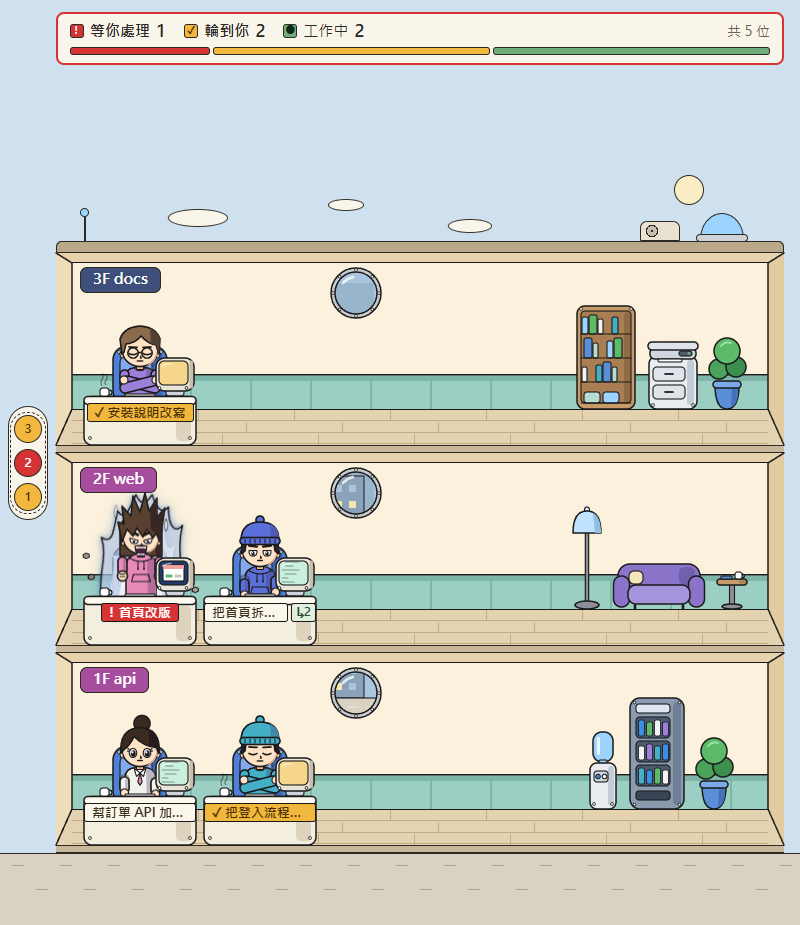
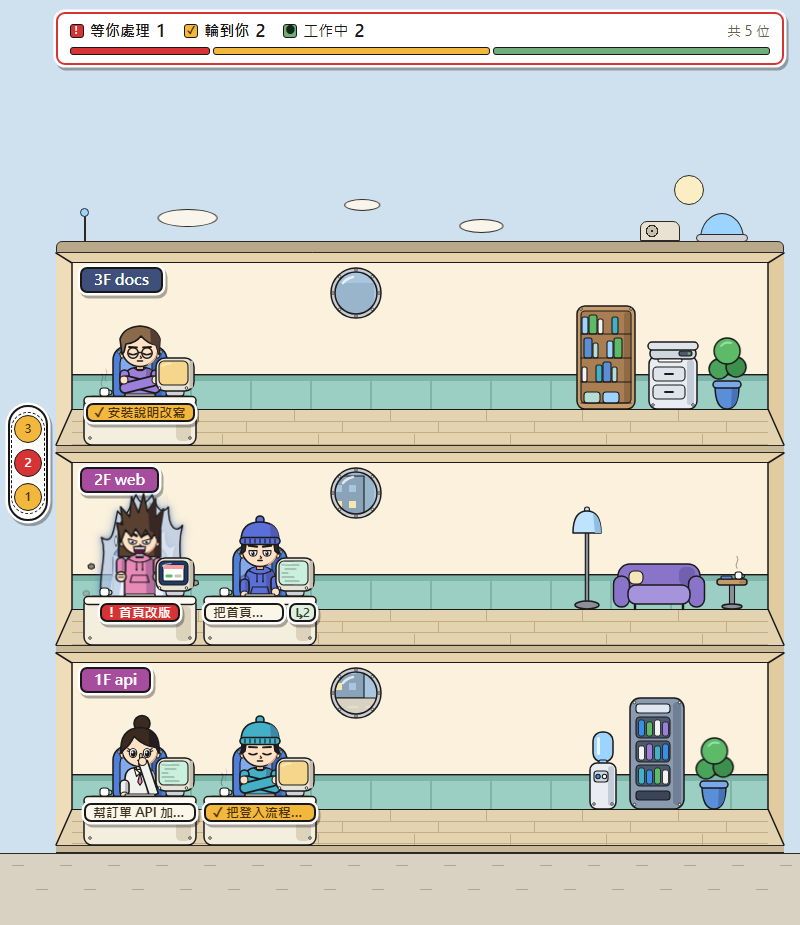
feat: 名牌、招牌、狀態列、電梯面板、資訊卡統一成粗黑框、白外圈、硬投影
五種介面元素共用 theme.css 的 --ui-border、--ui-shadow，值取自設計稿白天畫板的名牌。
狀態列、電梯面板、資訊卡在元素上把主題變數蓋回固定值，日夜長得一樣。

diff --git a/web/src/styles/building.css b/web/src/styles/building.css
@@ -63,10 +63,9 @@ body { margin: 0; min-height: 100vh; display: flex; flex-direction: column; back
 .side-r { right: 0; transform: scaleX(-1); --side-wall: var(--side-wall-r); }
 /* 樓板：上下各一條墨線 */
 .slab { left: 0; right: 0; top: 192px; height: 8px; box-sizing: border-box; border: solid var(--ink); border-width: 1.6px 0; background: var(--slab); }
-/* 招牌：不透明的專案色（floor.ts 設）、1.6px 墨線框、白色粗體，放不下用「…」；left 與 max-width（到第一扇窗之前）由 floor.ts 依 furniture.ts 的 SIGN_X／SIGN_MAX_W 設定。
-   top 14：0 號座位輪到你的泡泡頂在 y 44，招牌底在 40，不重疊 */
-.sign { top: 14px; height: 26px; padding: 0 12px; border: 1.6px solid var(--ink); border-radius: 7px; box-sizing: border-box;
-  color: #fff; font: bold 15px/22.8px system-ui, "Microsoft JhengHei", sans-serif; white-space: nowrap; overflow: hidden; text-overflow: ellipsis; }
+/* 招牌：不透明的專案色（floor.ts 設）、共用的介面樣式（theme.css 的 --ui-*）、白色粗體，放不下用「…」；left 與 max-width（到第一扇窗之前）由 floor.ts 依 furniture.ts 的 SIGN_X／SIGN_MAX_W 設定 */
+.sign { top: 14px; height: 26px; padding: 0 12px; border: var(--ui-border); box-shadow: var(--ui-shadow); border-radius: 7px; box-sizing: border-box;
+  color: #fff; font: bold 15px/22px system-ui, "Microsoft JhengHei", sans-serif; white-space: nowrap; overflow: hidden; text-overflow: ellipsis; }
 .chairs, .people, .desks, .windows { inset: 0; pointer-events: none; }
 /* 右端家具區：離樓層右緣 24（GEO.sideGap）、寬 200（GEO.furnitureW） */
 .furniture { top: 0; right: 24px; width: 200px; height: 200px; pointer-events: none; }
@@ -77,15 +76,15 @@ body { margin: 0; min-height: 100vh; display: flex; flex-direction: column; back
 .desk .desk-steam { display: none; }
 .desk[data-st="idle"] .desk-steam { display: inline; } /* 輪到你時馬克杯冒煙（objects.ts 的 DESK_STEAM） */
 /* 名牌：桌子正面，13px、最寬 112，放不下用「…」；卡片色依狀態：工作中米白（--plate）、等你處理紅、輪到你琥珀。
-   右邊的「↳N」是工作中的助理數（淡綠），不縮，名牌太長時縮的是文字 */
-.plate { position: absolute; top: 150px; left: 4px; right: 4px; display: flex; justify-content: center; gap: 3px; }
-.plate > span { min-width: 0; max-width: 112px; box-sizing: border-box; height: 19px; padding: 0 7px; border: 1.4px solid var(--fig-ink); border-radius: 3px;
-  font: bold 13px/17px system-ui, "Microsoft JhengHei", sans-serif; white-space: nowrap; overflow: hidden; text-overflow: ellipsis; }
+   右邊的「↳N」是工作中的助理數（淡綠），不縮，名牌太長時縮的是文字。框、白外圈、硬投影用共用的介面樣式（theme.css 的 --ui-*），間距 5 讓兩塊的白外圈不黏在一起 */
+.plate { position: absolute; top: 150px; left: 4px; right: 4px; display: flex; justify-content: center; gap: 5px; }
+.plate > span { min-width: 0; max-width: 112px; box-sizing: border-box; height: 19px; padding: 0 7px; border: var(--ui-border); box-shadow: var(--ui-shadow); border-radius: 7px;
+  font: bold 13px/15px system-ui, "Microsoft JhengHei", sans-serif; white-space: nowrap; overflow: hidden; text-overflow: ellipsis; }
 .plate.working > span { background: var(--plate); color: #3b3020; }
 .plate.waiting > span { background: var(--waiting); color: #fff; }
 .plate.idle > span { background: var(--turn); color: #4a3000; }
-.plate > .helpers { flex: none; box-sizing: border-box; height: 19px; padding: 0 4px; border: 1.4px solid var(--fig-ink); border-radius: 3px; background: #dfeedd; color: #2f4a32;
-  font: bold 12px/16px system-ui, "Microsoft JhengHei", sans-serif; }
+.plate > .helpers { flex: none; box-sizing: border-box; height: 19px; padding: 0 4px; border: var(--ui-border); box-shadow: var(--ui-shadow); border-radius: 7px; background: #dfeedd; color: #2f4a32;
+  font: bold 12px/15px system-ui, "Microsoft JhengHei", sans-serif; }
 /* 沒有人上班：空大廳，兩行字寫在貼在牆上的紙條（微微歪 −2°） */
 .lobby-msg { left: 0; right: 0; top: 40px; display: flex; justify-content: center; }
 .lobby-msg .note { display: flex; flex-direction: column; align-items: center; gap: 6px; padding: 12px 22px; border: 1.6px solid var(--ink); border-radius: 4px;

diff --git a/web/src/styles/ui.css b/web/src/styles/ui.css
@@ -1,8 +1,10 @@
-/* 狀態列：紙卡，圖例＋比例條；外框跟著最緊急的狀態變色（等你處理紅、輪到你琥珀、其餘一般墨線）；沒有陰影。
+/* 狀態列、電梯面板、資訊卡日夜長得一樣：在元素上把會隨日夜變的主題變數蓋回固定值（白底、墨字），框和投影用共用的介面樣式（theme.css 的 --ui-*） */
+:is(#summary, #elevator, .card) { --paper: #fff; --text: var(--ui-ink); --text-sub: #6b5f4f; --ink: var(--ui-ink); --button: #e8dbc2; }
+/* 狀態列：白卡，圖例＋比例條；外框跟著最緊急的狀態變色（等你處理紅、輪到你琥珀、其餘一般墨線）。
    整頁橫向捲動時釘在左邊，寬度維持視窗寬（--view-w 由 building.ts 設） */
 #top { position: sticky; top: 0; left: 0; z-index: 20; box-sizing: border-box; width: var(--view-w, auto); padding: 12px 16px 10px 56px; background: var(--page-bg); }
 #summary { padding: 6px 12px 8px; display: flex; flex-direction: column; gap: 6px;
-  background: var(--paper); color: var(--text); border: 1.6px solid var(--ink); border-radius: 8px; }
+  background: var(--paper); color: var(--text); border: var(--ui-border); box-shadow: var(--ui-shadow); border-radius: 9px; }
 #summary.turn { border: 2.6px solid var(--turn); }
 #summary.alert { border: 2.6px solid var(--waiting); }
 #summary .legend { display: flex; flex-wrap: wrap; align-items: center; gap: 4px 18px; font-size: 15px; }
@@ -21,7 +23,7 @@
 #summary .bar span { border: 1.2px solid var(--ink); border-radius: 3px; box-sizing: border-box; }
 /* 電梯面板：固定在視窗左側垂直置中，寬 40，疊在狀態列之上（狀態列左邊 56 是空的）、資訊卡之下；樓層多到放不下時自己上下捲。按鈕直徑 28、間距 6；框上下各比按鈕多 3 */
 #elevator { position: fixed; left: 8px; top: 50%; transform: translateY(-50%); z-index: 25; width: 40px; box-sizing: border-box; max-height: calc(100vh - 24px);
-  overflow-y: auto; scrollbar-width: none; background: var(--paper); border: 1.6px solid var(--ink); border-radius: 20px; }
+  overflow-y: auto; scrollbar-width: none; background: var(--paper); border: var(--ui-border); box-shadow: var(--ui-shadow); border-radius: 20px; }
 .elev-in { position: relative; display: flex; flex-direction: column; align-items: center; gap: 6px; padding: 8px 5px; }
 .elev-in button { flex: none; width: 28px; height: 28px; padding: 0; box-sizing: border-box; border: 1.6px solid var(--ink); border-radius: 50%; background: var(--button); color: var(--text);
   font: bold 12px/1 system-ui, "Microsoft JhengHei", sans-serif; cursor: pointer; }
@@ -30,8 +32,8 @@
 .elev-in button.idle { background: var(--turn); color: #4a3000; }
 .elev-frame { position: absolute; left: 1px; right: 1px; box-sizing: border-box; border: 1.2px dashed var(--text); border-radius: 17px; background: transparent; pointer-events: none; }
 
-/* 資訊卡：紙卡、墨線框、頂端一條專案色（--pc 由 card.ts 依專案設定）；顏色只用主題變數 */
-.card { position: fixed; display: none; z-index: 30; width: 300px; box-sizing: border-box; background: var(--paper); color: var(--text); border: 1.6px solid var(--ink);
+/* 資訊卡：白卡、共用的介面樣式、頂端一條專案色（--pc 由 card.ts 依專案設定）；顏色只用主題變數（日夜固定的值在本檔第一條規則） */
+.card { position: fixed; display: none; z-index: 30; width: 300px; box-sizing: border-box; background: var(--paper); color: var(--text); border: var(--ui-border); box-shadow: var(--ui-shadow);
   border-radius: 12px; overflow: hidden; font: 13px/1.5 system-ui, "Microsoft JhengHei", sans-serif; }
 .card-bar { height: 5px; background: var(--pc); }
 .card-body { padding: 14px 16px 16px; display: flex; flex-direction: column; gap: 12px; }

diff --git a/test/figure.test.ts b/test/figure.test.ts
@@ -104,6 +104,15 @@ test('名牌小標「↳N」不縮，名牌太長時縮的是文字', () => {
   expect(rule('web/src/styles/building.css', '.plate > span')).toMatch(/min-width: 0/);
 });
 
+test('名牌、招牌、狀態列、電梯面板、資訊卡共用同一組粗黑框、白外圈、硬投影', () => {
+  const ui = 'web/src/styles/ui.css', building = 'web/src/styles/building.css';
+  for (const [file, sel] of [[building, '.plate > span'], [building, '.plate > .helpers'], [building, '.sign'], [ui, '#summary'], [ui, '#elevator'], [ui, '.card']] as const) {
+    const r = rule(file, sel);
+    expect(r, sel).toContain('border: var(--ui-border)');
+    expect(r, sel).toContain('box-shadow: var(--ui-shadow)');
+  }
+});
+
 test('狀態列在整頁橫向捲動時釘在左邊', () => {
   expect(rule('web/src/styles/ui.css', '#top')).toMatch(/left: 0/);
 });

diff --git a/web/src/styles/theme.css b/web/src/styles/theme.css
@@ -6,6 +6,10 @@
   --screen-turn: #f6d68a;
   --screen-waiting: #f2a0a0;
   --sun: #fbeec4; /* 太陽和月亮：淡奶油色，不借狀態色 */
+  /* 介面樣式（名牌、招牌、狀態列、電梯面板、資訊卡共用，日夜相同）：粗黑框、白外圈、往右下的半透明硬投影；值取自設計稿白天畫板的名牌 */
+  --ui-ink: #1b1716;
+  --ui-border: 2px solid var(--ui-ink);
+  --ui-shadow: 0 0 0 2.5px #fff, 2px 3px 0 2.5px rgb(27 23 22 / .35);
 }
 
 :root[data-time="day"] {

diff --git a/docs/design.md b/docs/design.md
@@ -62,7 +62,7 @@ Claude Code ─hook─▶ src/hook/send.ts ─POST /events─▶ src/server ─r
 - **沒有電梯和走路**：人在座位上瞬移登場（直向光痕閃兩下，人從窄變寬、稍微超過再彈回，兩邊的殘影收回本體，約 0.35 秒）；退場時站起來雙指點額 0.3 秒，再閃三下、橫向壓成一條線，留下光痕後消失（共約 0.8 秒）。開頁面和重新連線時大家直接坐好，不播動畫。電梯進出原本是前端最複雜、又沒有測試的部分，所以拿掉，換成好維護。
 - **生命力來自狀態動作**：工作中殘像打字（兩層半透明殘影，約每 7 秒停下來推一次鼻子，螢幕程式碼一行一行往上捲；三種狀態裡最安靜），等你處理站起來爆氣（半透明白色的火焰氣場，白天疊在奶油色牆上看不清楚，所以外圍加一圈冷藍光暈；只有角色自己抖動、整層樓不震動；紅色只留給名牌），輪到你抱胸閉眼冥想（約每 6 秒睜開右眼、挑起右眉瞄觀看者約 0.5 秒；減少動態時停在閉眼）。每個人的動作用 sessionId 算出的延遲錯開（`view.ts` 的 `motionDelay`，`person.ts` 設成 CSS 變數 `--delay`），不會像整排機器人同步。環境也會動，但都比爆氣安靜得多（慢、幅度小）：屋頂上方的三朵雲各自左右飄、窗景的雲整片往左飄（所有窗看的是同一片天，所以一起飄；雲在全景上半部，4F 以上的窗才看得到）、盆栽的葉子輕晃、邊桌的咖啡和輪到你桌上的馬克杯冒煙。家具和桌子的動作用 `motionDelay(樓層 key + 家具或座位)` 錯開。環境動畫都寫在 `theme.css`，`building.css` 不放動畫（樓層本身不能動）。減少動態時 `#building *` 一條規則全停，煙停在半透明、不消失。
 - **每層樓是淺盒舞台**：看得到天花板、後牆（下段是藍綠色護牆板）、木地板和兩側斜牆，人和家具仍然正面朝向觀看者。樓層寬度不固定，所以外殼的中段用 CSS 畫，兩側寬 16 的斜牆（連同天花板和地板的斜角）是一張固定大小的 SVG（`objects.ts` 的 `ROOM_SIDE`），右邊那張用 CSS 鏡像。桌子、招牌和家具區離樓層左右緣各留 24（`GEO.sideGap`），不貼著斜牆；樓層寬也跟著多 48。
-- **畫風**：介面（名牌、招牌、狀態列、電梯面板、資訊卡）還是紙張風。環境是圓滾滾的機械風，和人物同一套畫法：黑色線稿、圓角、鉚釘、一階硬影（右側一塊加深的實色，不用網點）；奶油白桌子配胖胖的映像管螢幕（畫面大、邊框窄）、每張桌子後面一把藍色椅子（不用藍綠，免得和護牆板混在一起；空桌也有，畫在人後面，椅背從人的兩側露出來）、鉚釘圓窗、圓頂水塔、圓頭立燈。人物是鳥山明前期風的 Q 版，造型照「Claude 辦公室美術設計稿」artifact 的定稿：大頭（寬橢圓臉，瀏海壓到眉毛、五官在臉的下半部）、黑色線稿（外輪廓 `ol` 比內線粗）、一階硬影（同色加深的實色，不用網點）、中明度飽和色的衣服、自然色的頭髮、大塊稜角髮束、只露前臂、人物本身不畫椅子（椅子是桌子那一層的物件）；眼型（角度眼加粗斜眉、大圓眼加睫毛）、髮型、髮色、衣服都由 sessionId 雜湊決定。不放原作的角色、招牌髮型、標誌或名字。
+- **畫風**：介面（名牌、招牌、狀態列、電梯面板、資訊卡）共用一組樣式變數（`theme.css` 的 `--ui-*`）：2px 墨線框、2.5px 白外圈、往右下的半透明硬投影，值取自設計稿白天畫板的名牌；招牌和狀態列在設計稿裡投影略有不同，統一成同一組。狀態列、電梯面板、資訊卡日夜長得一樣（白底墨字，在元素上把主題變數蓋回固定值）。環境是圓滾滾的機械風，和人物同一套畫法：黑色線稿、圓角、鉚釘、一階硬影（右側一塊加深的實色，不用網點）；奶油白桌子配胖胖的映像管螢幕（畫面大、邊框窄）、每張桌子後面一把藍色椅子（不用藍綠，免得和護牆板混在一起；空桌也有，畫在人後面，椅背從人的兩側露出來）、鉚釘圓窗、圓頂水塔、圓頭立燈。人物是鳥山明前期風的 Q 版，造型照「Claude 辦公室美術設計稿」artifact 的定稿：大頭（寬橢圓臉，瀏海壓到眉毛、五官在臉的下半部）、黑色線稿（外輪廓 `ol` 比內線粗）、一階硬影（同色加深的實色，不用網點）、中明度飽和色的衣服、自然色的頭髮、大塊稜角髮束、只露前臂、人物本身不畫椅子（椅子是桌子那一層的物件）；眼型（角度眼加粗斜眉、大圓眼加睫毛）、髮型、髮色、衣服都由 sessionId 雜湊決定。不放原作的角色、招牌髮型、標誌或名字。
 - **日夜依本機時間**：6:00–18:00 是白天，可以用 `?time=day|night` 固定。不看系統深色模式，切換也沒有過渡動畫。
 
 ## 做到了也算失敗
